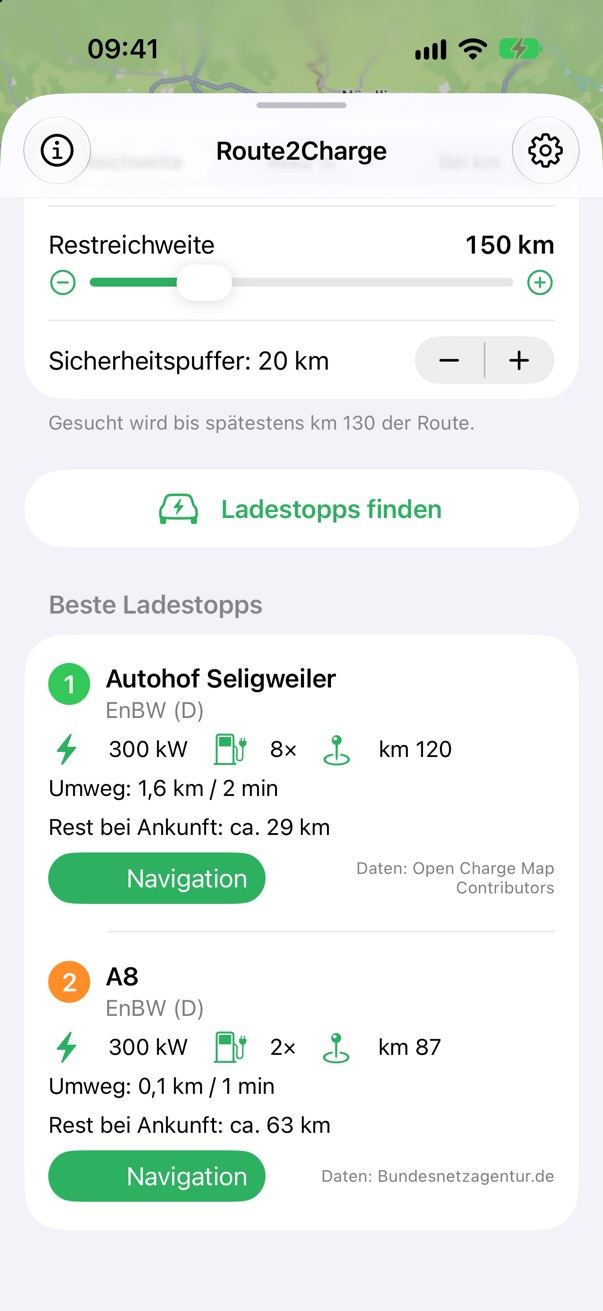
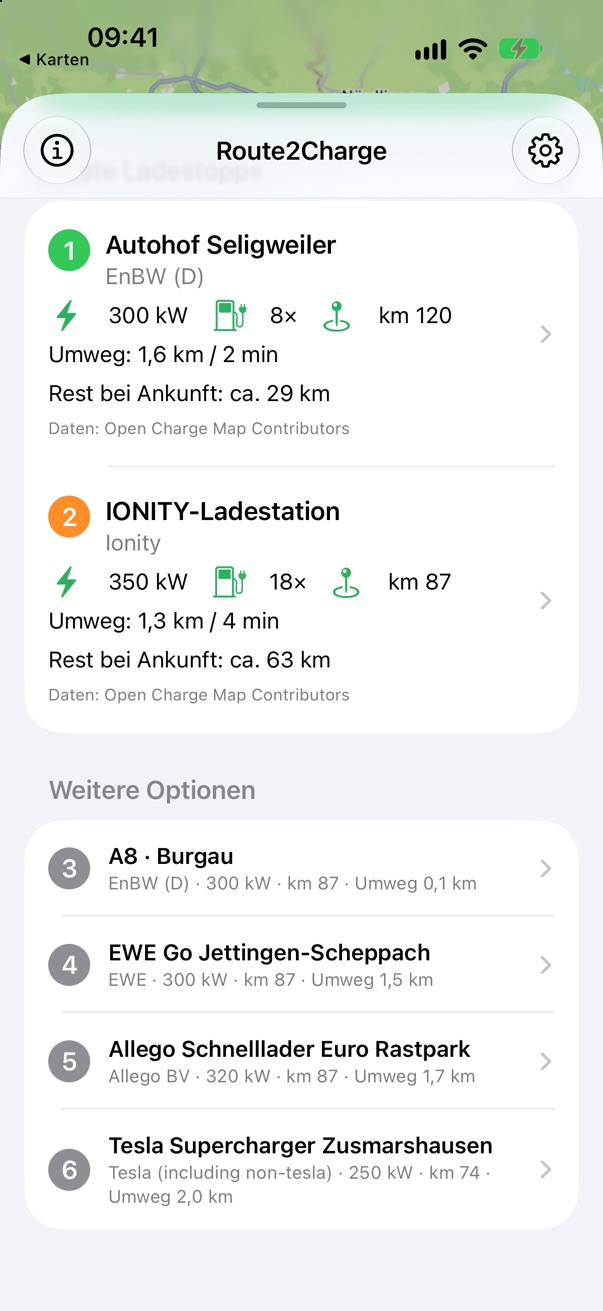
Website: neue App-Funktionen und drei Screenshots
Schritt 3 und vierte Karte "Echte Auswahl" ergaenzt, App-Abschnitt
mit Ergebnisliste und Fahrtansicht.

Claude-Session: https://claude.ai/code/session_01FbbqVDJEnc7oZAJejWfKfJ

diff --git a/de/index.html b/de/index.html
@@ -115,7 +115,7 @@
     <div class="steps">
 <article class="card"><div class="step-num">1</div><h3>Ziel eingeben</h3><p>Start am aktuellen Standort oder an einem beliebigen Ort. Die Route berechnet Apple Karten.</p></article>
 <article class="card"><div class="step-num">2</div><h3>Reichweite angeben</h3><p>Restreichweite in km, Akkustand in % – oder einfach: Ich will bei ca. km 150 laden.</p></article>
-<article class="card"><div class="step-num">3</div><h3>Die 2 besten Stopps bekommen</h3><p>Route2Charge prüft alle Schnelllader im Ladefenster und wählt die zwei besten aus – mit echtem Umweg statt Schätzung.</p></article>
+<article class="card"><div class="step-num">3</div><h3>Die besten Stopps bekommen – und mehr</h3><p>Route2Charge prüft alle Schnelllader im Ladefenster und zeigt die zwei besten plus weitere Optionen – mit echtem Umweg statt Schätzung. Antippen zeigt dir die ganze Fahrt.</p></article>
     </div>
   </div>
 </section>
@@ -127,6 +127,7 @@
 <article class="card"><div class="big">Bis <span>350&nbsp;kW</span></div><p>Schnelllader zuerst. Weniger warten, mehr fahren.</p></article>
 <article class="card"><div class="big">Kleinster <span>Umweg</span></div><p>Jeder Kandidat wird echt nachgerechnet – Säulen auf der falschen Autobahnseite fliegen raus.</p></article>
 <article class="card"><div class="big">Reichweite <span>clever genutzt</span></div><p>Spät genug laden, um voranzukommen, früh genug, um entspannt zu bleiben. Dein Sicherheitspuffer gilt immer.</p></article>
+<article class="card"><div class="big">Echte <span>Auswahl</span></div><p>Die zweite Empfehlung kommt möglichst von einem anderen Anbieter – und Tesla Supercharger kannst du ausblenden.</p></article>
     </div>
   </div>
 </section>
@@ -136,11 +137,12 @@
     <div class="section-head">
       <span class="kicker">Die App</span>
       <h2>Klar, ruhig, gemacht für unterwegs.</h2>
-      <p>Alles auf einem Bildschirm: deine Route, das Ladefenster und deine zwei besten Optionen – mit Leistung, Umweg und der Reichweite, die bei Ankunft noch übrig ist.</p>
+      <p>Deine Route, das Ladefenster und deine besten Optionen – mit Leistung, Umweg und Reichweite bei Ankunft. Säule antippen und die ganze Fahrt vom Start bis zum Ziel direkt in der App sehen.</p>
     </div>
     <div class="screens">
 <figure><div class="phone"><img src="../assets/screens/route.jpg" alt="Die Karte zeigt die Route, das grüne Ladefenster und beide empfohlenen Ladesäulen." width="1206" height="2622" loading="lazy"></div><figcaption>Route und Ladefenster auf einen Blick</figcaption></figure>
-<figure><div class="phone"><img src="../assets/screens/stops.jpg" alt="Liste der zwei empfohlenen Ladesäulen mit Leistung, Anzahl Ladepunkte, Umweg und Restreichweite." width="1206" height="2622" loading="lazy"></div><figcaption>Die zwei besten Stopps mit Umweg und Restreichweite</figcaption></figure>
+<figure><div class="phone"><img src="../assets/screens/stops.jpg" alt="Liste der zwei empfohlenen Ladesäulen mit Leistung, Ladepunkten, Umweg und Restreichweite, darunter weitere Optionen anderer Anbieter." width="1206" height="2622" loading="lazy"></div><figcaption>Die zwei besten Stopps – plus weitere Optionen</figcaption></figure>
+<figure><div class="phone"><img src="../assets/screens/trip.jpg" alt="Karte der ganzen Fahrt vom Start über die Ladesäule zum Ziel, mit Gesamtstrecke, Fahrzeit und Reichweite bei Ankunft." width="1206" height="2622" loading="lazy"></div><figcaption>Die ganze Fahrt mit Ladestopp</figcaption></figure>
     </div>
   </div>
 </section>

diff --git a/index.html b/index.html
@@ -115,7 +115,7 @@
     <div class="steps">
 <article class="card"><div class="step-num">1</div><h3>Set your destination</h3><p>Start from where you are or pick any starting point. Routing runs on Apple Maps.</p></article>
 <article class="card"><div class="step-num">2</div><h3>Tell it how far you can go</h3><p>Enter your remaining range in km, your battery percentage – or simply say: I want to charge around km 150.</p></article>
-<article class="card"><div class="step-num">3</div><h3>Get your two best stops</h3><p>Route2Charge checks every fast charger in your charging window and picks the best two – with real detours, not guesses.</p></article>
+<article class="card"><div class="step-num">3</div><h3>Get your best stops – and more</h3><p>Route2Charge checks every fast charger in your charging window and shows the best two plus further options – with real detours, not guesses. Tap one to see your whole trip.</p></article>
     </div>
   </div>
 </section>
@@ -127,6 +127,7 @@
 <article class="card"><div class="big">Up to <span>350&nbsp;kW</span></div><p>Fast chargers first. Less waiting, more driving.</p></article>
 <article class="card"><div class="big">Minimal <span>detour</span></div><p>Every candidate is checked with real routing – chargers on the wrong side of the motorway drop out.</p></article>
 <article class="card"><div class="big">Range, <span>used well</span></div><p>Charge late enough to make progress, early enough to stay relaxed. Your safety buffer always applies.</p></article>
+<article class="card"><div class="big">Real <span>choice</span></div><p>Your second option comes from a different network whenever possible – and you can hide Tesla Superchargers.</p></article>
     </div>
   </div>
 </section>
@@ -136,11 +137,12 @@
     <div class="section-head">
       <span class="kicker">The app</span>
       <h2>Clear, calm, made for the road.</h2>
-      <p>Everything on one screen: your route, the charging window and your two best options – with power, detour and the range you’ll have left on arrival.</p>
+      <p>Your route, the charging window and your best options – with power, detour and the range left on arrival. Pick a charger and see the whole trip, start to destination, right in the app.</p>
     </div>
     <div class="screens">
 <figure><div class="phone"><img src="assets/screens/route.jpg" alt="The map shows the route, the green charging window and both recommended chargers." width="1206" height="2622" loading="lazy"></div><figcaption>Route and charging window at a glance</figcaption></figure>
-<figure><div class="phone"><img src="assets/screens/stops.jpg" alt="List of the two recommended chargers with power, number of charge points, detour and remaining range." width="1206" height="2622" loading="lazy"></div><figcaption>Your two best stops with detour and remaining range</figcaption></figure>
+<figure><div class="phone"><img src="assets/screens/stops.jpg" alt="List of the two recommended chargers with power, charge points, detour and remaining range, followed by further options from other networks." width="1206" height="2622" loading="lazy"></div><figcaption>Your two best stops – plus more options</figcaption></figure>
+<figure><div class="phone"><img src="assets/screens/trip.jpg" alt="Map of the full trip from start via the charging station to the destination, with total distance, driving time and range on arrival." width="1206" height="2622" loading="lazy"></div><figcaption>The whole trip with your charging stop</figcaption></figure>
     </div>
   </div>
 </section>

diff --git a/assets/style.css b/assets/style.css
@@ -155,15 +155,17 @@ h2 { font-size: clamp(32px, 4.2vw, 48px); line-height: 1.07; letter-spacing: -.0
 
 /* Criteria */
 .criteria-section { padding-top: 24px; }
-.criteria { display: grid; grid-template-columns: repeat(3, 1fr); gap: 18px; margin-top: 18px; }
-@media (max-width: 860px) { .criteria { grid-template-columns: 1fr; } }
+.criteria { display: grid; grid-template-columns: repeat(4, 1fr); gap: 18px; margin-top: 18px; }
+@media (max-width: 1060px) { .criteria { grid-template-columns: repeat(2, 1fr); } }
+@media (max-width: 640px) { .criteria { grid-template-columns: 1fr; } }
 .criteria .card { background: linear-gradient(180deg, var(--card-2), var(--card)); }
-.big { font-size: 32px; font-weight: 850; letter-spacing: -.025em; line-height: 1.1; margin-bottom: 8px; }
+.big { font-size: 28px; font-weight: 850; letter-spacing: -.025em; line-height: 1.1; margin-bottom: 8px; }
 .big span { color: var(--accent); }
 
 /* Screens */
-.screens { display: grid; grid-template-columns: repeat(2, minmax(0, 330px)); gap: 56px; justify-content: center; }
-@media (max-width: 760px) { .screens { grid-template-columns: minmax(0, 310px); gap: 48px; } }
+.screens { display: grid; grid-template-columns: repeat(3, minmax(0, 320px)); gap: 40px; justify-content: center; }
+@media (max-width: 1060px) { .screens { grid-template-columns: repeat(2, minmax(0, 310px)); } }
+@media (max-width: 700px) { .screens { grid-template-columns: minmax(0, 300px); gap: 48px; } }
 figure { margin: 0; }
 figcaption { text-align: center; color: var(--muted); margin-top: 18px; font-size: 15px; }
 

diff --git a/tools/build.py b/tools/build.py
@@ -120,20 +120,22 @@ TEXT = {
         "steps": [
             ("Set your destination", "Start from where you are or pick any starting point. Routing runs on Apple Maps."),
             ("Tell it how far you can go", "Enter your remaining range in km, your battery percentage – or simply say: I want to charge around km 150."),
-            ("Get your two best stops", "Route2Charge checks every fast charger in your charging window and picks the best two – with real detours, not guesses."),
+            ("Get your best stops – and more", "Route2Charge checks every fast charger in your charging window and shows the best two plus further options – with real detours, not guesses. Tap one to see your whole trip."),
         ],
         "crit_h": "Ranked by what actually matters",
         "criteria": [
             ("Up to <span>350&nbsp;kW</span>", "Fast chargers first. Less waiting, more driving."),
             ("Minimal <span>detour</span>", "Every candidate is checked with real routing – chargers on the wrong side of the motorway drop out."),
             ("Range, <span>used well</span>", "Charge late enough to make progress, early enough to stay relaxed. Your safety buffer always applies."),
+            ("Real <span>choice</span>", "Your second option comes from a different network whenever possible – and you can hide Tesla Superchargers."),
         ],
         "app_kicker": "The app",
         "app_h2": "Clear, calm, made for the road.",
-        "app_p": "Everything on one screen: your route, the charging window and your two best options – with power, detour and the range you’ll have left on arrival.",
+        "app_p": "Your route, the charging window and your best options – with power, detour and the range left on arrival. Pick a charger and see the whole trip, start to destination, right in the app.",
         "shots": [
             ("assets/screens/route.jpg", "Route and charging window at a glance", "The map shows the route, the green charging window and both recommended chargers."),
-            ("assets/screens/stops.jpg", "Your two best stops with detour and remaining range", "List of the two recommended chargers with power, number of charge points, detour and remaining range."),
+            ("assets/screens/stops.jpg", "Your two best stops – plus more options", "List of the two recommended chargers with power, charge points, detour and remaining range, followed by further options from other networks."),
+            ("assets/screens/trip.jpg", "The whole trip with your charging stop", "Map of the full trip from start via the charging station to the destination, with total distance, driving time and range on arrival."),
         ],
         "priv_kicker": "Privacy",
         "claim": ["No account.", "No tracking.", "No server."],
@@ -189,20 +191,22 @@ TEXT = {
         "steps": [
             ("Ziel eingeben", "Start am aktuellen Standort oder an einem beliebigen Ort. Die Route berechnet Apple Karten."),
             ("Reichweite angeben", "Restreichweite in km, Akkustand in % – oder einfach: Ich will bei ca. km 150 laden."),
-            ("Die 2 besten Stopps bekommen", "Route2Charge prüft alle Schnelllader im Ladefenster und wählt die zwei besten aus – mit echtem Umweg statt Schätzung."),
+            ("Die besten Stopps bekommen – und mehr", "Route2Charge prüft alle Schnelllader im Ladefenster und zeigt die zwei besten plus weitere Optionen – mit echtem Umweg statt Schätzung. Antippen zeigt dir die ganze Fahrt."),
         ],
         "crit_h": "Ausgewählt nach dem, was zählt",
         "criteria": [
             ("Bis <span>350&nbsp;kW</span>", "Schnelllader zuerst. Weniger warten, mehr fahren."),
             ("Kleinster <span>Umweg</span>", "Jeder Kandidat wird echt nachgerechnet – Säulen auf der falschen Autobahnseite fliegen raus."),
             ("Reichweite <span>clever genutzt</span>", "Spät genug laden, um voranzukommen, früh genug, um entspannt zu bleiben. Dein Sicherheitspuffer gilt immer."),
+            ("Echte <span>Auswahl</span>", "Die zweite Empfehlung kommt möglichst von einem anderen Anbieter – und Tesla Supercharger kannst du ausblenden."),
         ],
         "app_kicker": "Die App",
         "app_h2": "Klar, ruhig, gemacht für unterwegs.",
-        "app_p": "Alles auf einem Bildschirm: deine Route, das Ladefenster und deine zwei besten Optionen – mit Leistung, Umweg und der Reichweite, die bei Ankunft noch übrig ist.",
+        "app_p": "Deine Route, das Ladefenster und deine besten Optionen – mit Leistung, Umweg und Reichweite bei Ankunft. Säule antippen und die ganze Fahrt vom Start bis zum Ziel direkt in der App sehen.",
         "shots": [
             ("../assets/screens/route.jpg", "Route und Ladefenster auf einen Blick", "Die Karte zeigt die Route, das grüne Ladefenster und beide empfohlenen Ladesäulen."),
-            ("../assets/screens/stops.jpg", "Die zwei besten Stopps mit Umweg und Restreichweite", "Liste der zwei empfohlenen Ladesäulen mit Leistung, Anzahl Ladepunkte, Umweg und Restreichweite."),
+            ("../assets/screens/stops.jpg", "Die zwei besten Stopps – plus weitere Optionen", "Liste der zwei empfohlenen Ladesäulen mit Leistung, Ladepunkten, Umweg und Restreichweite, darunter weitere Optionen anderer Anbieter."),
+            ("../assets/screens/trip.jpg", "Die ganze Fahrt mit Ladestopp", "Karte der ganzen Fahrt vom Start über die Ladesäule zum Ziel, mit Gesamtstrecke, Fahrzeit und Reichweite bei Ankunft."),
         ],
         "priv_kicker": "Datenschutz",
         "claim": ["Kein Account.", "Kein Tracking.", "Kein Server."],
